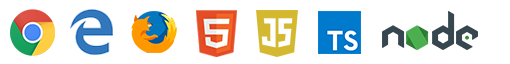
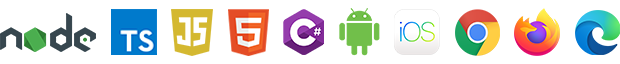
update cv

diff --git a/index.html b/index.html
@@ -100,25 +100,17 @@
               <article>
                 <h1>WEB</h1>
                 <p>JAVASCRIPT / TYPESCRIPT / C# / CSS / SCSS / HTML</p>
-                <div
-                  class="csharp"
-                  style="display: flex; align-items: center; margin-left: -15px"
-                >
-                  <div>
-                    <img src="./img/csharp.png" width="82" />
-                  </div>
-                  <div class="browser" style="margin-left: -10px">
-                    <ul>
-                      <li><strong>Supported Browsers</strong></li>
-                      <li>Internet Explorer</li>
-                      <li>Firefox</li>
-                      <li>Chrome</li>
-                      <li>Safari</li>
-                      <li>Mobile Safari</li>
-                      <li>Opera</li>
-                      <li>Android</li>
-                    </ul>
-                  </div>
+                <div class="browser">
+                  <ul>
+                    <li><strong>Supported Browsers</strong></li>
+                    <li>Internet Explorer</li>
+                    <li>Firefox</li>
+                    <li>Chrome</li>
+                    <li>Safari</li>
+                    <li>Mobile Safari</li>
+                    <li>Opera</li>
+                    <li>Android</li>
+                  </ul>
                 </div>
 
                 <h1>STACK LIBRARIES AND FRAMEWORKS</h1>
@@ -261,62 +253,64 @@
                 <h1>
                   <span>2023 - Present</span>
                   <a
-                    href="https://www.pinnacle-corp.co.nz/"
+                    href="https://qube.com.au/"
                     class="comp-link"
                     target="_blank"
-                    >Pinnacle Corporation</a
-                  >
+                    >Qube (AU)
+                  </a>
                 </h1>
                 <h2>Sr. Software Engineer</h2>
                 <p>
-                  As a dedicated Software Engineer specializing in web
-                  application development, I bring a robust skill set in
-                  JavaScript, CSS, HTML, and C# with SQL databases. At Pinnacle
-                  Corporation, I stand as the primary contact for bug reports,
-                  ensuring swift and effective resolution. My role extends to
-                  observing and refining on-site processes and procedures,
-                  significantly upgrading programming and software solutions to
-                  align with business goals. I collaborate closely with
-                  stakeholders to identify and address programming needs,
-                  enhancing overall productivity. My responsibilities also
-                  include diagnosing and correcting software issues within
-                  service level agreements, managing the helpdesk tracking
-                  system, and developing solutions for issues logged therein.
+                  As a Senior Software Engineer at Qube, specializing in web
+                  application development, I have a solid background in
+                  JavaScript, CSS, HTML, and C# with SQL databases. I'm the
+                  go-to person for quickly fixing issues in our software
+                  applications and ensuring everything runs smoothly. I also
+                  lead projects to upgrade old systems to newer, more efficient
+                  technologies, greatly improving how they function and align
+                  with our business needs. I work closely with our team to spot
+                  areas where we can do better and make sure we're all moving in
+                  the same direction.
                 </p>
                 <p>
-                  In concert with the Team Leader and CIO, I evaluate and
-                  prioritize the company's programming needs, focusing on the
-                  effective testing, writing, and implementation of programming
-                  solutions. This involves identifying areas for modifications
-                  in existing programs, developing these modifications, and
-                  organizing coordinated user testing to ensure reliability.
+                  Together with our CIO, I help decide what our tech team should
+                  focus on next. I'm involved in testing, tweaking, and rolling
+                  out software updates to make sure they work perfectly. We also
+                  organize user testing sessions to make sure everything we
+                  build is reliable and user-friendly.
                 </p>
-                <ul class="indent">
+                <ul>
                   <li>
-                    Proficient in C# programming, with extensive experience in
-                    SQL database management.
+                    Expert in C# and manage our SQL databases, focusing on
+                    upgrading our systems to enhance performance.
                   </li>
                   <li>
-                    Skilled in diagnosing and solving complex software issues,
-                    ensuring high application performance.
+                    I excel at tackling complex software challenges, ensuring
+                    our applications operate smoothly and reliably.
                   </li>
                   <li>
-                    Adept at process optimization and implementing effective
-                    programming solutions.
+                    I lead projects to bring in new technologies like React and
+                    React Native, making our UI solutions more modern and
+                    efficient.
                   </li>
                   <li>
-                    Experienced in managing helpdesk systems and providing
-                    exceptional customer support.
+                    I manage our helpdesk team, working to make sure our
+                    customer support is top-notch and problems get solved fast.
                   </li>
                   <li>
-                    Strong capability in documentation, user training, and
-                    software implementation.
+                    I create detailed guides and train our staff on new systems,
+                    ensuring everyone is up to speed and comfortable with our
+                    tech.
                   </li>
                   <li>
-                    Proven track record of working effectively with
-                    cross-functional teams and stakeholders.
+                    I work with teams across the company to make sure our
+                    projects succeed and meet our goals.
                   </li>
                 </ul>
+                <p>
+                  I'm all about making things work better and helping everyone
+                  get the most out of the tools we build.
+                </p>
 
                 <h1>
                   <span>2019 - 2023</span>

diff --git a/css/main.css b/css/main.css
@@ -297,7 +297,7 @@ ul.apps li i {
 
 
 .browser {
-    width:510px;
+    width:620px;
     height:64px;
     background:url(../img/techs.png) no-repeat;
     margin:20px 0;
